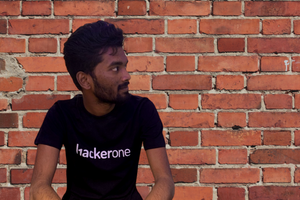
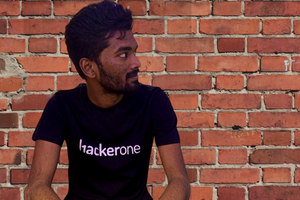
added new speaker from caido

Changed region(s): [[0.06, 0.0, 0.66, 1.0], [0.63, 0.03, 0.66, 0.06]]

diff --git a/index.html b/index.html
@@ -447,6 +447,25 @@
                             <!-- team member -->
                             <div class="de-team-list">
                                 <div class="team-pic">
+                                    <img src="images-event/team/7.png" class="img-responsive" alt="" />
+                                </div>
+                                <div class="team-desc">
+                                    <h3>Emile Fugulin</h3>
+                                    <p class="lead"> Co-founder of Caido </p>
+                                    <div class="small-border"></div>
+                                    <div class="social">
+                                        <a href="https://twitter.com/TheSytten/" target="_blank"><i class="fa fa-twitter fa-lg"></i></a>
+
+                                    </div>
+                                </div>
+                            </div>
+                            <!-- team close -->
+                        </div>
+
+                        <div class="col-xl-3 col-lg-4 col-sm-6 mb30 wow fadeInUp">
+                            <!-- team member -->
+                            <div class="de-team-list">
+                                <div class="team-pic">
                                     <img src="images-event/team/12.jpg" class="img-responsive" alt="" />
                                 </div>
                                 <div class="team-desc">
@@ -679,15 +698,15 @@
                                                         <div class="schedule-listing">
                                                             <div class="schedule-item">
                                                                 <div class="sc-info">
-                                                                    <h3>TBD</h3>
-                                                                    <p>TBD</p>
-                                                                    <span>TBD</span>
+                                                                    <h3>Building hacker tooling</h3>
+                                                                    <p>Insight into the first year of Caido</p>
+                                                                    <span> Co-founder of Caido</span>
                                                                 </div>
                                                                 <div class="sc-name">
                                                                     <div class="sc-pic">
-                                                                        <img src="images-event/team/a.jpg" class="img-circle" alt="">
+                                                                        <img src="images-event/team/2.2.png" class="img-circle" alt="">
                                                                     </div>
-                                                                    <h4>TBD</h4>
+                                                                    <h4>Emile Fugulin</h4>
                                                                 </div>
                                                                 <div class="clearfix"></div>
                                                             </div>
